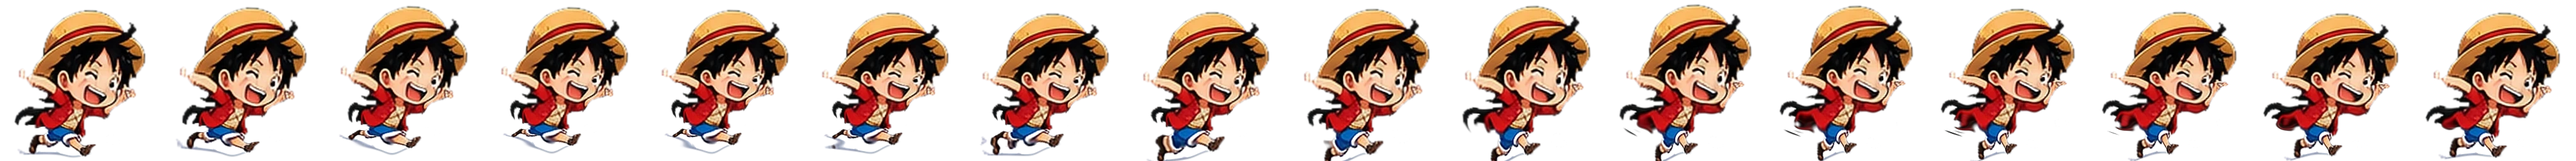
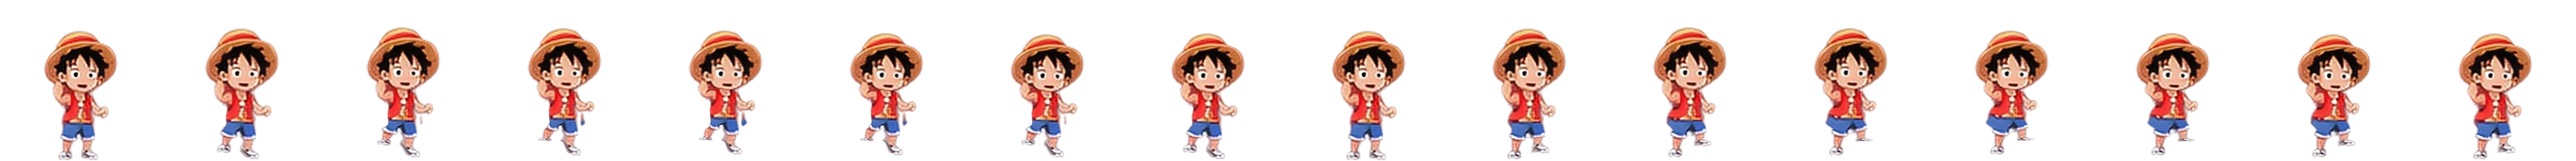
update

diff --git a/client/src/motion/Roamers.jsx b/client/src/motion/Roamers.jsx
@@ -5,7 +5,7 @@
 // Login / signup get their own behaviour (greeters / recruiters). Tap a character for a trick. Submit buttons trigger a celebration.
 import { useEffect, useRef, useState } from "react";
 import "./roamers.css";
-import { CHARS, ROPE_X, sprite, walkStrip, runStrip } from "./chars";
+import { CHARS, sprite, walkStrip, runStrip, climbStrip } from "./chars";
 
 const KEYS = Object.keys(CHARS);
 const rnd = (a, b) => a + Math.random() * (b - a);
@@ -15,6 +15,7 @@ const calm = () => document.documentElement.classList.contains("ff-calm") || win
 const slot = () => { const h = new Date().getHours(); return h >= 22 || h < 5 ? "night" : h < 10 ? "morning" : h < 14 ? "noon" : h < 18 ? "afternoon" : "evening"; };
 const authEl = () => document.querySelector(".auth-shell");
 const CONF = ["#f43f5e", "#f59e0b", "#22c55e", "#38bdf8", "#a855f7", "#facc15"];
+const PETAL = ["#fbcfe8", "#f9a8d4", "#fda4af", "#fecdd3", "#ffffff"];
 
 const EAT = { zoro: "Sake and rice. Perfect.", naruto: "Ichiraku ramen!", luffy: "MEEEAT!!", jinwoo: "Restoring HP…", goku: "Need. More. Food.", gojo: "Sweets break~" };
 const ROUT = {
@@ -27,26 +28,29 @@ const ROUT = {
   plank: { pose: "plank", anim: "tremble", say: () => "Hold it… hold it…" }, study: { pose: "study", anim: "idle", say: () => "Studying macros…" },
   workout: { pose: "workout", anim: "lift", say: () => "One more rep!" },
   powerup: { pose: "powerup", anim: "pulse", say: () => "POWER UP!!", fx: "power" }, levelup: { pose: "levelup", anim: "rise", say: () => "LEVEL UP!", fx: "level" },
-  victory: { pose: "victory", anim: "dance", say: () => "Victory!", fx: "win" },
+  victory: { pose: "victory", anim: "dance", say: () => "Victory!", fx: "win" }, rest: { pose: "idle", anim: "idle", say: () => "" },
 };
 const SOLO = {
-  morning: ["run", "pushup", "squat", "plank", "scale", "rope", "drink", "workout"], noon: ["eat", "drink", "study", "swim", "task"],
-  afternoon: ["rope", "cycle", "parkour", "task", "run", "study", "follow"], evening: ["parkour", "powerup", "levelup", "rope", "dance", "swim", "victory", "follow"], night: ["sleep"],
+  morning: ["run", "pushup", "squat", "plank", "scale", "rope", "drink", "workout", "rest"], noon: ["eat", "drink", "study", "swim", "task", "rest"],
+  afternoon: ["rope", "cycle", "parkour", "task", "run", "study", "follow", "rest"], evening: ["parkour", "powerup", "levelup", "rope", "dance", "swim", "victory", "follow", "rest"], night: ["sleep"],
 };
 const DUO = {
   morning: ["race", "pushup", "squat", "ropeRace", "drink"], noon: ["eat", "eat", "swim", "study"],
   afternoon: ["fight", "ropeRace", "parkour", "race", "fight"], evening: ["fight", "fight", "parkour", "ropeRace", "dance", "powerup"], night: ["sleep"],
 };
 
-function Sprite({ src, who, pose, anim, size, cyc }) {
-  if (anim === "walk" && (pose === "walk" || pose === "run")) // baked 16-frame cycle (thigh+knee, shoulder+elbow, head bob, hair lag); --cyc = seconds per stride so feet don't slide
-    return <span className="rm-strip" style={{ width: size, height: size, "--cyc": `${cyc}s`, backgroundImage: `url(${pose === "run" ? runStrip(who) : walkStrip(who)})` }} />;
+const K = 1.19; // cycle frames are drawn with the body at ~84% of the frame (room for limbs): scale up so they match the still sprites
+function Sprite({ src, who, pose, anim, size, cyc, rev }) {
+  if (anim === "walk" && (pose === "walk" || pose === "run" || pose === "climb")) { // baked 16-frame cycles: alternating legs, arm swing / reach, weight shift, head bob
+    const s2 = size * K;
+    return <span className={`rm-strip${rev ? " rev" : ""}`} style={{ width: s2, height: s2, left: -(s2 - size) / 2, top: -(s2 - size), "--cyc": `${cyc}s`, backgroundImage: `url(${pose === "run" ? runStrip(who) : pose === "climb" ? climbStrip(who) : walkStrip(who)})` }} />;
+  }
   return <img className={`rm-img rm-${anim}`} src={src} width={size} height={size} alt="" draggable="false" />;
 }
 
 export default function Roamers() {
   const size = useRef(typeof window !== "undefined" && window.innerWidth < 640 ? 70 : 96).current;
-  const [cast, setCast] = useState(() => KEYS.map((who) => ({ who, x: -300, y: 200, dur: 0, ease: "e", cyc: 0.8, pose: "walk", anim: "idle", flip: 1, say: "", on: false, air: null })));
+  const [cast, setCast] = useState(() => KEYS.map((who) => ({ who, x: -300, y: 200, dur: 0, ease: "e", cyc: 0.8, rev: false, pose: "walk", anim: "idle", flip: 1, say: "", on: false, air: null })));
   const [fxs, setFxs] = useState([]);
   const [ropes, setRopes] = useState([]);
   const api = useRef({});
@@ -57,13 +61,14 @@ export default function Roamers() {
     const lock = new Set(), ON = new Set(), P = {};
     KEYS.forEach((k) => { P[k] = { x: -300, y: 200 }; });
     const W = () => window.innerWidth, H = () => window.innerHeight;
-    const set = (who, p) => alive && setCast((c) => c.map((m) => (m.who === who ? { ...m, ...p } : m)));
+    const held = new Set(), POSE = {};
+    const set = (who, p, force) => { if (!alive || (held.has(who) && !force)) return; if (p.pose) POSE[who] = p.pose; setCast((c) => c.map((m) => (m.who === who ? { ...m, ...p } : m))); };
     const spot = () => ({ x: rnd(16, Math.max(90, W() - size - 16)), y: rnd(90, Math.max(150, H() - size - 20)) });
     const C = (w) => ({ x: P[w].x + size / 2, y: P[w].y + size / 2 });
     const say = (w, s, ms = 2400) => { set(w, { say: s }); setTimeout(() => set(w, { say: "" }), ms); };
     const fx = (o, ms) => { const id = Math.random(); setFxs((f) => [...f, { id, ...o }]); setTimeout(() => setFxs((f) => f.filter((x) => x.id !== id)), ms); };
     const burst = (p, c, w) => fx({ t: "burst", x: p.x, y: p.y, c, w }, 700);
-    const confetti = (p) => fx({ t: "confetti", x: p.x, y: p.y, p: Array.from({ length: 22 }, () => ({ dx: rnd(-170, 170), dy: rnd(-190, 120), r: rnd(-540, 540), c: pick(CONF), d: rnd(0, 150) })) }, 1900);
+    const confetti = (p, kind) => fx({ t: "confetti", x: p.x, y: p.y, p: Array.from({ length: kind === "petal" ? 28 : 22 }, () => kind === "petal" ? { petal: 1, dx: rnd(-130, 130), dy: rnd(-150, 60), r: rnd(-360, 360), c: pick(PETAL), d: rnd(0, 400) } : ({ dx: rnd(-170, 170), dy: rnd(-190, 120), r: rnd(-540, 540), c: pick(CONF), d: rnd(0, 150) })) }, kind === "petal" ? 2900 : 1900);
     const quake = () => { document.body.classList.add("rm-quake"); setTimeout(() => document.body.classList.remove("rm-quake"), 700); }; //#web
     const platforms = () => [...document.querySelectorAll(".card, .logger-card, .wt-hero, .wt-log, .wt-history, .profile-section, section")].map((e) => e.getBoundingClientRect()).filter((r) => r.width > 150 && r.top > 72 && r.top < H() - size - 40 && r.left < W() - 80); //#web
     //#mob const quake = () => {}; const platforms = () => [];
@@ -150,7 +155,9 @@ export default function Roamers() {
     };
 
     const hold = async (w, ms, look = true) => { const t0 = Date.now(); let side = 0;   // stand around naturally: look at the cursor if it's near, otherwise glance about now and then
-      while (alive && Date.now() - t0 < ms) { await sleep(Math.min(700, Math.max(50, ms - (Date.now() - t0)))); if (!look) continue;
+      while (alive && Date.now() - t0 < ms) { await sleep(Math.min(700, Math.max(50, ms - (Date.now() - t0))));
+        if (POSE[w] === "idle" && Math.random() < 0.3) { set(w, { pose: "blink" }); await sleep(130); set(w, { pose: "idle" }); }   // blink
+        if (!look) continue;
         if (cur.x >= 0 && Math.abs(cur.x - C(w).x) < 460) { const f = cur.x < C(w).x ? -1 : 1; if (f !== side) { side = f; set(w, { flip: f }); } }
         else if (Math.random() < 0.15) set(w, { flip: Math.random() < 0.5 ? -1 : 1 }); } };
     // ---- solo activities ----
@@ -161,7 +168,7 @@ export default function Roamers() {
       set(w, { pose: R.pose, anim: R.anim, say: R.say(w) });
       const c = C(w);
       if (R.fx === "power") { burst(c, "#f59e0b", "POWER UP!"); quake(); fx({ t: "charge", x: c.x, y: c.y, c: "#f59e0b", life: 1400 }, 1400); }
-      if (R.fx === "level") { burst(c, "#facc15", "LEVEL UP!"); confetti(c); }
+      if (R.fx === "level") { burst(c, "#facc15", "LEVEL UP!"); confetti(c, "petal"); }
       if (R.fx === "win") { confetti({ x: c.x, y: c.y - 30 }); set(w, { air: { n: ++airN, h: 70, ms: 700, rot: 0 } }); setTimeout(() => set(w, { air: null }), 760); }
       await hold(w, ms || (kind === "sleep" ? 14000 : rnd(6000, 9000)), !["pushup", "squat", "plank", "sleep", "powerup", "levelup", "victory", "eat", "drink"].includes(kind)); set(w, { say: "" });
     };
@@ -175,30 +182,30 @@ export default function Roamers() {
       await move(w, { x: P[w].x < W() / 2 ? W() - size - 12 : 12, y }, pose, 70, anim);
       say(w, pose === "swim" ? "Refreshing!" : "Wheee!", 1800); await move(w, { x: P[w].x < W() / 2 ? W() - size - 12 : 12, y }, pose, 70, anim);
     };
-    const ropeClimb = async (w) => { // bottom → top (hand over hand), cheer, top → bottom, backflip off
-      const x = rnd(W() * 0.15, W() * 0.85), bottom = H() - size - 8, top = 46, id = addRope(x); let flip = 1;
-      const lx = () => x - (flip > 0 ? ROPE_X[w] : 1 - ROPE_X[w]) * size;
-      const climb = async (to) => { const dir = to < P[w].y ? -1 : 1; while (alive && (dir < 0 ? P[w].y > to : P[w].y < to)) {
-        flip = -flip; const ny = P[w].y + dir * Math.min(34, Math.abs(to - P[w].y)); P[w] = { x: lx(), y: ny };
-        set(w, { x: P[w].x, y: ny, dur: 0.5, ease: "e", flip, pose: "rope", anim: "climb" }); await sleep(540); } };
-      await sleep(1000); await move(w, { x: x - ROPE_X[w] * size, y: bottom }, "walk", 60);
-      say(w, "Bottom to top!", 2000); await climb(top);
-      set(w, { anim: "idle" }); say(w, "Made it!", 2000); burst({ x: x, y: top + size * 0.4 }, "#facc15", "TOP!"); confetti({ x, y: top + 40 }); await sleep(1800);
-      say(w, "Now back down!", 2000); await climb(bottom - 130);
+    const climbTo = (w, x, toY, speed = 46) => { // one continuous climb: legs step and hands reach (baked cycle), moving up (or down = cycle in reverse) at a steady pace
+      const dist = Math.abs(toY - P[w].y), dur = Math.max(0.8, dist / speed);
+      P[w] = { x: x - size / 2, y: toY };
+      set(w, { x: x - size / 2, y: toY, dur, ease: "l", pose: "climb", anim: "walk", flip: 1, cyc: Math.min(1.4, (size * 0.46) / speed), rev: toY > POSEY[w] }); POSEY[w] = toY;
+      return dur; };
+    const POSEY = {};
+    const ropeClimb = async (w) => { // walks to the spot first, THEN the rope drops; climbs bottom → top, cheers, climbs top → bottom, backflips off
+      const x = rnd(W() * 0.15, W() * 0.85), bottom = H() - size - 8, top = 46;
+      await move(w, { x: x - size / 2, y: bottom }, "walk", 60); POSEY[w] = bottom;
+      say(w, "Time to climb!", 1800); const id = addRope(x); await sleep(1300);
+      say(w, "Bottom to top!", 2000); let d = climbTo(w, x, top); await sleep(d * 1000 + 120);
+      set(w, { anim: "idle", rev: false }); say(w, "Made it!", 2000); burst({ x, y: top + size * 0.4 }, "#facc15", "TOP!"); confetti({ x, y: top + 40 }, "petal"); await sleep(1900);
+      say(w, "Now back down!", 2000); d = climbTo(w, x, bottom - 130); await sleep(d * 1000 + 120); set(w, { anim: "idle", rev: false });
       await jump(w, { x: Math.min(Math.max(x + rnd(-170, 170) - size / 2, 10), W() - size - 10), y: bottom }, 70, 1, "victory"); say(w, "Stuck the landing!", 1800);
       delRope(id); await sleep(900);
     };
     const ropeRace = async (a, b) => {
-      const xs = [W() * rnd(0.22, 0.38), W() * rnd(0.62, 0.78)], ids = xs.map(addRope), bottom = H() - size - 8, top = 46, who = [a, b]; let over = null;
-      await sleep(1000); await Promise.all(who.map((w, i) => move(w, { x: xs[i] - ROPE_X[w] * size, y: bottom }, "walk", 65)));
-      say(a, "Race you to the top!", 2200); say(b, "You're on!", 2200); await sleep(2400); say(a, "3… 2… 1… GO!", 1800); await sleep(1900);
-      const climber = async (w, i) => { let flip = 1; const rate = rnd(0.8, 1.25); set(w, { pose: "rope" });
-        while (alive && !over && P[w].y > top) { flip = -flip; const ny = Math.max(top, P[w].y - 34), lx = xs[i] - (flip > 0 ? ROPE_X[w] : 1 - ROPE_X[w]) * size; P[w] = { x: lx, y: ny };
-          set(w, { x: lx, y: ny, dur: 0.45, ease: "e", flip, anim: "climb" }); await sleep((480 / rate) * (Math.random() < 0.2 ? 1.7 : 1)); }
-        if (!over && P[w].y <= top) over = w; };
-      await Promise.all(who.map(climber)); const win = over || a, lose = win === a ? b : a;
-      set(win, { anim: "idle", say: "I win!" }); set(lose, { anim: "idle", pose: "rope", say: "So close!" }); confetti({ x: C(win).x, y: C(win).y }); burst(C(win), "#facc15", "WINNER!"); await sleep(2200);
-      who.forEach((w) => { P[w] = { ...P[w], y: bottom }; set(w, { y: bottom, dur: 1.4, ease: "e", say: "" }); }); await sleep(1600); ids.forEach(delRope); await sleep(700);
+      const xs = [W() * rnd(0.22, 0.38), W() * rnd(0.62, 0.78)], bottom = H() - size - 8, top = 46, who = [a, b];
+      await Promise.all(who.map((w, i) => move(w, { x: xs[i] - size / 2, y: bottom }, "walk", 65))); who.forEach((w) => { POSEY[w] = bottom; });
+      const ids = xs.map(addRope); say(a, "Race you to the top!", 2200); say(b, "You're on!", 2200); await sleep(2600); say(a, "3… 2… 1… GO!", 1800); await sleep(1900);
+      const sp = [rnd(40, 60), rnd(40, 60)], dur = who.map((w, i) => climbTo(w, xs[i], top, sp[i])), win = dur[0] <= dur[1] ? a : b, lose = win === a ? b : a, tw = Math.min(...dur), tl = Math.max(...dur);
+      await sleep(tw * 1000 + 100); set(win, { anim: "idle", rev: false, say: "I win!" }); confetti(C(win), "petal"); burst(C(win), "#facc15", "WINNER!");
+      await sleep((tl - tw) * 1000 + 120); set(lose, { anim: "idle", rev: false, say: "So close!" }); await sleep(2000);
+      who.forEach((w, i) => { const d2 = climbTo(w, xs[i], bottom - 20, 70); }); await sleep(4200); who.forEach((w) => set(w, { anim: "idle", rev: false, say: "" })); ids.forEach(delRope); await sleep(700);
     };
     const parkour = async (w) => { // hop from card to card across the page, then flip back down to the floor
       let spots = platforms().sort(() => Math.random() - 0.5).slice(0, 3).map((r) => ({ x: Math.min(Math.max(r.left + rnd(8, Math.max(9, r.width - size - 8)), 6), W() - size - 6), y: r.top - size + 8 }));
@@ -315,18 +322,29 @@ export default function Roamers() {
       else { const R = ROUT.powerup; set(w, { pose: R.pose, anim: R.anim, say: R.say(w) }); burst(c, "#f59e0b", "POWER UP!"); quake(); await sleep(2200); }
       set(w, { pose: "victory", anim: "dance" }); await sleep(1600); set(w, { pose: "walk", anim: "idle" }); lock.delete(w);
     };
+    const drag = { who: null, moved: false, sx: 0, sy: 0, dx: 0, dy: 0 };
+    api.current.dragStart = (w, px, py) => { if (!ON.has(w) || authEl() || fighting) return; Object.assign(drag, { who: w, moved: false, sx: px, sy: py, dx: px - P[w].x, dy: py - P[w].y }); };
+    api.current.dragMove = (px, py) => { const w = drag.who; if (!w) return; if (!drag.moved && Math.hypot(px - drag.sx, py - drag.sy) < 6) return;
+      if (!drag.moved) { drag.moved = true; held.add(w); set(w, { pose: "cheer", anim: "dangle", dur: 0, say: pick(["Whoa!", "Put me down!", "Wheee!", "Hey hey hey!"]), air: null, flip: 1 }, true); }   // picked up: arms up, dangling
+      const x = Math.min(Math.max(px - drag.dx, -10), W() - size + 10), y = Math.min(Math.max(py - drag.dy, 0), H() - size); P[w] = { x, y }; set(w, { x, y, dur: 0 }, true); };
+    api.current.dragEnd = async () => { const w = drag.who; if (!w) return; drag.who = null; api.current.wasDrag = drag.moved; if (!drag.moved) return;
+      const ground = H() - size - 12, fall = Math.max(0.35, Math.sqrt(Math.max(0, ground - P[w].y)) / 22); held.delete(w);   // dropped: falls with gravity, lands with a squash
+      P[w] = { ...P[w], y: ground }; set(w, { y: ground, dur: fall, ease: "i", pose: "cheer", anim: "idle", say: "" }, true); await sleep(fall * 1000);
+      dust({ x: P[w].x + size * 0.3, y: P[w].y + size * 0.92 }); dust({ x: P[w].x + size * 0.7, y: P[w].y + size * 0.92 }); set(w, { pose: "idle", anim: "land", say: pick(["Ouch!", "Haha!", "Again!", "Nice flight!"]) }, true); await sleep(1100); set(w, { say: "" }); };
+    const onDragMove = (e) => api.current.dragMove(e.clientX, e.clientY), onDragEnd = () => api.current.dragEnd();
+    window.addEventListener("pointermove", onDragMove); window.addEventListener("pointerup", onDragEnd); //#web
     const hovering = new Set();
     api.current.hover = async (w) => { if (!ON.has(w) || lock.has(w) || fighting || authEl() || hovering.has(w)) return; hovering.add(w);   // point at one and it greets you
       set(w, { pose: "wave", anim: "idle", say: pick(["Hey!", "Oh, hi!", "👋", "Need a hand?"]), air: { n: ++airN, h: 34, ms: 520, rot: 0 } }); setTimeout(() => set(w, { air: null }), 560); await sleep(2200); hovering.delete(w); };
     director();
-    return () => { alive = false; document.removeEventListener("click", onClick, true); window.removeEventListener("pointermove", onMove); };
+    return () => { alive = false; document.removeEventListener("click", onClick, true); window.removeEventListener("pointermove", onMove); window.removeEventListener("pointermove", onDragMove); window.removeEventListener("pointerup", onDragEnd); };
   }, [size]);
 
   const fxView = (f) => {
     const st = { left: f.x, top: f.y, "--dx": `${f.dx || 0}px`, "--dy": `${f.dy || 0}px`, "--life": `${f.life || 600}ms`, "--d": `${f.delay || 0}ms`, "--c": f.c || "#38bdf8", "--ang": `${f.ang || 0}deg`, "--w": `${size * 0.8}px` };
     if (["arm", "slash", "beam"].includes(f.t)) return <span key={f.id} className={`fx fx-rot fx-rot-${f.t}`} style={{ ...st, transform: `rotate(${f.r}deg)` }}><i style={{ width: f.len }} /></span>;
     if (f.t === "burst") return <span key={f.id} className="fx fx-burst" style={st}><b>{f.w}</b></span>;
-    if (f.t === "confetti") return <span key={f.id} className="fx fx-confetti" style={st}>{f.p.map((q, i) => <i key={i} style={{ "--dx": `${q.dx}px`, "--dy": `${q.dy + 150}px`, "--r": `${q.r}deg`, background: q.c, animationDelay: `${q.d}ms` }} />)}</span>;
+    if (f.t === "confetti") return <span key={f.id} className="fx fx-confetti" style={st}>{f.p.map((q, i) => <i key={i} className={q.petal ? "petal" : ""} style={{ "--dx": `${q.dx}px`, "--dy": `${q.dy + 150}px`, "--r": `${q.r}deg`, background: q.c, animationDelay: `${q.d}ms` }} />)}</span>;
     if (f.t === "rush") return <span key={f.id} className={`fx fx-rush fx-${f.cls}`} style={st}><img src={f.img} alt="" draggable="false" /></span>;
     return <span key={f.id} className={`fx fx-${f.t}`} style={st}><i /></span>;
   };
@@ -336,13 +354,13 @@ export default function Roamers() {
     <div className="rm-layer" aria-hidden="true">
       {ropes.map((q) => <span key={q.id} className={`rm-rope${q.out ? " out" : ""}`} style={{ left: q.x }} />)}
       {cast.map((m) => (
-        <button key={m.who} type="button" tabIndex={-1} title={CHARS[m.who]} className={`rm-c${m.on ? " on" : ""}`} onClick={() => api.current.poke?.(m.who)} onMouseEnter={() => api.current.hover?.(m.who)}
-          style={{ zIndex: Math.round(m.y), transformOrigin: "50% 100%", transform: `translate(${m.x}px, ${m.y}px) scale(${(0.82 + 0.28 * Math.min(1, Math.max(0, m.y / vh))).toFixed(3)})`, transition: `transform ${m.dur}s ${m.ease === "l" ? "linear" : "ease-in-out"}, opacity .4s`, "--sz": `${size}px` }}>
-          <span className="rm-shadow" />
+        <button key={m.who} type="button" tabIndex={-1} title={CHARS[m.who]} className={`rm-c${m.on ? " on" : ""}`} onPointerDown={(e) => api.current.dragStart?.(m.who, e.clientX, e.clientY)} onClick={() => { if (api.current.wasDrag) { api.current.wasDrag = false; return; } api.current.poke?.(m.who); }} onMouseEnter={() => api.current.hover?.(m.who)}
+          style={{ zIndex: Math.round(m.y), transformOrigin: "50% 100%", transform: `translate(${m.x}px, ${m.y}px) scale(${(0.82 + 0.28 * Math.min(1, Math.max(0, m.y / vh))).toFixed(3)})`, transition: `transform ${m.dur}s ${m.ease === "l" ? "linear" : m.ease === "i" ? "cubic-bezier(.5,0,.9,.6)" : "ease-in-out"}, opacity .4s`, "--sz": `${size}px` }}>
+          {m.pose !== "climb" && <span className="rm-shadow" />}
           {m.say && <span className="rm-say">{m.say}</span>}
           <span key={m.air ? m.air.n : "g"} className={m.air ? "rm-air" : "rm-ground"} style={m.air ? { "--h": `${m.air.h}px`, "--ms": `${m.air.ms}ms`, "--rot": `${m.air.rot}deg` } : undefined}>
             <span className="rm-f" style={{ transform: `scaleX(${m.flip})` }}>
-              <span key={m.pose} className="rm-pop"><Sprite src={sprite(m.who, m.pose)} who={m.who} pose={m.pose} anim={m.anim} size={size} cyc={m.cyc} /></span>
+              <span key={m.pose} className="rm-pop"><Sprite src={sprite(m.who, m.pose)} who={m.who} pose={m.pose} anim={m.anim} size={size} cyc={m.cyc} rev={m.rev} /></span>
             </span>
           </span>
         </button>

diff --git a/client/src/motion/chars.js b/client/src/motion/chars.js
@@ -1,21 +1,23 @@
 // The cast. Sprites live in public/chars/<who>-<scene>.webp (cut from the sticker sheets).
+const V = "?v=15"; // bump when sprites change so browsers never mix old art with new code
 export const CHARS = { zoro: "Zoro", naruto: "Naruto", luffy: "Luffy", jinwoo: "Jin-Woo", goku: "Goku", gojo: "Gojo" };
 export const DAY_ORDER = ["zoro", "naruto", "luffy", "jinwoo", "goku", "gojo", "luffy"]; // Sun..Sat
-const BASE = ["sad", "drink", "eat", "scale", "walk", "task", "habit", "cheer", "wave", "fight", "dance", "sleep", "idle", "run", "workout", "pushup", "squat", "plank", "rope", "cycle", "swim", "study", "powerup", "victory", "levelup"];
+const BASE = ["sad", "drink", "eat", "scale", "walk", "task", "habit", "cheer", "wave", "fight", "dance", "sleep", "idle", "run", "workout", "pushup", "squat", "plank", "rope", "cycle", "swim", "study", "powerup", "victory", "levelup", "climb", "blink"];
 const HAS = {
   zoro: [...BASE, "lift", "plan", "chart", "health", "chef"], jinwoo: [...BASE, "lift", "plan", "chart", "health", "chef"],
   naruto: [...BASE, "lift", "plan"], luffy: [...BASE, "lift", "plan"], goku: BASE, gojo: [...BASE, "plan"],
 };
-const FALLBACK = { workout: "lift", victory: "cheer", levelup: "cheer", powerup: "fight", idle: "wave", run: "walk", plan: "task", chart: "task", health: "drink", chef: "eat", lift: "habit", fight: "walk", dance: "cheer", sleep: "sad", habit: "cheer", cheer: "wave", wave: "task" };
+const FALLBACK = { blink: "idle", climb: "rope", workout: "lift", victory: "cheer", levelup: "cheer", powerup: "fight", idle: "wave", run: "walk", plan: "task", chart: "task", health: "drink", chef: "eat", lift: "habit", fight: "walk", dance: "cheer", sleep: "sad", habit: "cheer", cheer: "wave", wave: "task" };
 export const dayChar = (d = new Date()) => DAY_ORDER[d.getDay()];
 export function sprite(who, scene) {
   const ok = (HAS[who] || BASE).includes(scene) ? scene : FALLBACK[scene] || "task";
-  return `${import.meta.env.BASE_URL}chars/${who}-${ok}.webp`;
+  return `${import.meta.env.BASE_URL}chars/${who}-${ok}.webp${V}`;
 }
 
 // Baked 8-frame walk cycle (legs stride, arms swing) for each character.
-export const walkStrip = (who) => `${import.meta.env.BASE_URL}chars/${who}-walkstrip.webp`;
+export const walkStrip = (who) => `${import.meta.env.BASE_URL}chars/${who}-walkstrip.webp${V}`;
 
-export const runStrip = (who) => `${import.meta.env.BASE_URL}chars/${who}-runstrip.webp`;
+export const runStrip = (who) => `${import.meta.env.BASE_URL}chars/${who}-runstrip.webp${V}`;
+export const climbStrip = (who) => `${import.meta.env.BASE_URL}chars/${who}-climbstrip.webp${V}`;
 // Where the rope sits inside each character's rope-climb sprite (fraction of the sprite width), so the on-screen rope lines up with it.
 export const ROPE_X = {"jinwoo": 0.445, "naruto": 0.535, "luffy": 0.578, "zoro": 0.504, "goku": 0.523, "gojo": 0.5};

diff --git a/client/src/motion/roamers.css b/client/src/motion/roamers.css
@@ -95,3 +95,11 @@ body.rm-quake #root{animation:rm-quake .12s linear 5}
 .rm-f,.rm-air,.rm-ground{position:relative;z-index:1}
 .fx-dust i{width:14px;height:14px;margin:-7px 0 0 -7px;border-radius:50%;background:rgba(210,210,220,.75);animation:fx-dust .7s ease-out both}
 @keyframes fx-dust{to{opacity:0;transform:translate(-6px,-10px) scale(1.7)}}
+
+/* ---- v15: front-facing cycles, climbing, drag ---- */
+.rm-strip{position:relative}
+.rm-strip.rev{animation-direction:reverse}
+.rm-c{touch-action:none;cursor:grab}.rm-c:active{cursor:grabbing}
+.rm-dangle{animation:rm-dangle .9s ease-in-out infinite;transform-origin:50% 10%}
+@keyframes rm-dangle{0%,100%{transform:rotate(-9deg)}50%{transform:rotate(9deg)}}
+.fx-confetti i.petal{width:10px;height:14px;border-radius:70% 0 70% 0;animation-duration:2.6s}
